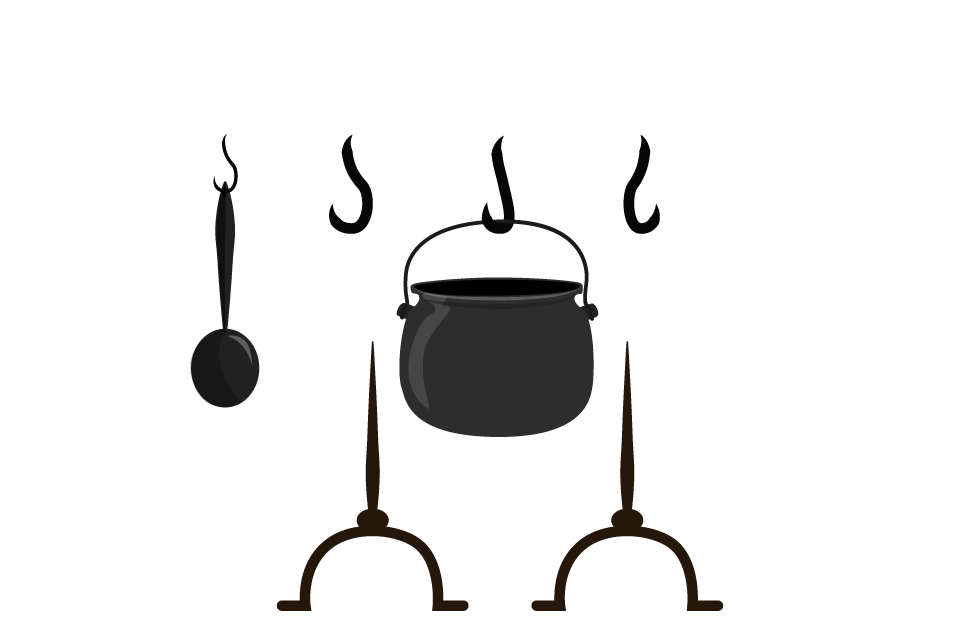
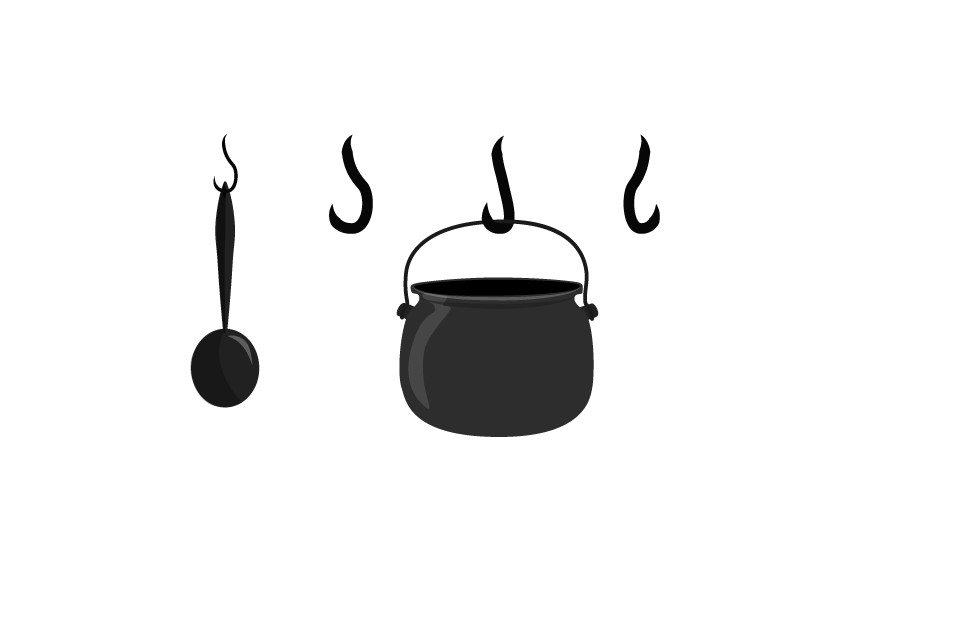
built scene 1

Changed region(s): [[0.5285, 0.5394, 0.7461, 0.989], [0.2798, 0.5394, 0.4974, 0.989]]

diff --git a/dist/css/main.css b/dist/css/main.css
@@ -12,7 +12,8 @@
   font-family: "museo-sans", Helvetica, Arial, sans-serif; }
 
 body {
-  margin: 0px; }
+  margin: 0px;
+  background-color: black; }
 
 #attract {
   position: absolute;
@@ -62,10 +63,72 @@ body {
         color: black; }
 
 #scene {
-  background: url("../../assets/bkgr.png");
-  background-size: cover;
-  background-position: center center;
+  height: 100vh;
   width: 100vw;
-  height: 100vh; }
+  overflow: hidden; }
+
+#background {
+  position: relative;
+  width: 1200px;
+  margin: 0px auto; }
+  #background img {
+    width: 1200px;
+    height: auto; }
+
+#chair {
+  position: absolute;
+  left: 215px;
+  top: 228px; }
+  #chair img {
+    width: 211px; }
+
+#fireplace {
+  position: absolute;
+  left: 397px;
+  top: 310px; }
+  #fireplace img {
+    width: 315px; }
+
+#frame {
+  position: absolute;
+  left: 362px;
+  top: 35px; }
+  #frame img {
+    width: 461px; }
+
+#mantel {
+  position: absolute;
+  top: 25px;
+  left: 328px; }
+  #mantel img {
+    width: 550px; }
+
+#mantelGarland {
+  position: absolute;
+  top: 231px;
+  left: 349px; }
+  #mantelGarland img {
+    width: 500px; }
+
+#pet {
+  position: absolute;
+  top: 485px;
+  left: 299px; }
+  #pet img {
+    width: 575px; }
+
+#table {
+  position: absolute;
+  top: 247px;
+  left: 690px; }
+  #table img {
+    width: 233px; }
+
+#tree {
+  position: absolute;
+  top: 0px;
+  left: 0px; }
+  #tree img {
+    width: 500px; }
 
 /*# sourceMappingURL=main.css.map */

diff --git a/index.html b/index.html
@@ -15,8 +15,32 @@
 	
 	</div>
 		<div id="scene" class="in">
-			<div id="chair">
-				<img src="assets/scene_1/sc01_obj-chair.png" id="scene_1_chair" alt="scene 1 chair">
+			<div id="background">
+				<img src="assets/bkgr.png" id="scene_background" alt="background image">
+				<div id="chair">
+					<img src="assets/scene_1/sc01_obj-chair.png" id="scene_1_chair" alt="scene 1 chair">
+				</div>
+				<div id="fireplace">
+					<img src="assets/scene_1/sc01_obj-fireplace.png" id="scene_1_fireplace" alt="scene 1 fireplace">
+				</div>
+				<div id="frame">
+					<img src="assets/scene_1/sc01_obj-frame.png" id="scene_1_frame" alt="scene 1 frame">
+				</div>
+				<div id="mantel">
+					<img src="assets/scene_1/sc01_obj-mantel.png" id="scene_1_mantel" alt="scene 1 mantel">
+				</div>
+				<div id="mantelGarland">
+					<img src="assets/scene_1/sc01_obj-mantelGarland.png" id="scene_1_mantelGarland" alt="scene 1 mantelGarland">
+				</div>
+				<div id="pet">
+					<img src="assets/scene_1/sc01_obj-pet.png" id="scene_1_pet" alt="scene 1 pet">
+				</div>
+				<div id="table">
+					<img src="assets/scene_1/sc01_obj-table.png" id="scene_1_table" alt="scene 1 table">
+				</div>
+				<div id="tree">
+					<img src="assets/scene_1/sc01_obj-tree.png" id="scene_1_tree" alt="scene 1 tree">
+				</div>
 			</div>
 		</div>
 	</div>

diff --git a/_sass/components/_scene.scss b/_sass/components/_scene.scss
@@ -1,7 +1,88 @@
 #scene {
-	background: url('../../assets/bkgr.png');
-	background-size: cover;
-	background-position: center center;
-	width: 100vw;
 	height: 100vh;
+	width: 100vw;
+	overflow: hidden;
+}
+
+
+#background {
+	position: relative;
+	width: 1200px;
+	margin: 0px auto;
+	img {
+	width: 1200px;
+	height: auto;
+	}
+}
+
+#chair {
+	position: absolute;
+    left: 215px;
+    top: 228px;
+	img {
+		width: 211px;
+	}
+}
+
+#fireplace {
+	position: absolute;
+	left: 397px;
+    top: 310px;
+    img {
+    	width: 315px;
+    }
+}
+
+#frame {
+	position: absolute;
+	left: 362px;
+    top: 35px;
+    img {
+    	width: 461px;
+    }
+}
+
+#mantel {
+	position: absolute;
+	top: 25px;
+    left: 328px;
+	img {
+		width: 550px;
+	}
+}
+
+#mantelGarland {
+	position: absolute;
+	top: 231px;
+    left: 349px;
+	img {
+		width: 500px;
+	}
+}
+
+#pet {
+	position: absolute;
+	top: 485px;
+    left: 299px;
+	img {
+		width: 575px;
+	}
+}
+
+#table {
+	position: absolute;
+	top: 247px;
+    left: 690px;
+	img {
+		width: 233px;
+	}
+}
+
+#tree {
+	position: absolute;
+	top: 0px;
+	left: 0px;
+	img {
+		width: 500px;
+	}
 }

diff --git a/_sass/base/_layout.scss b/_sass/base/_layout.scss
@@ -1,3 +1,4 @@
 body {
 	margin: 0px;
+	background-color: black;
 }
